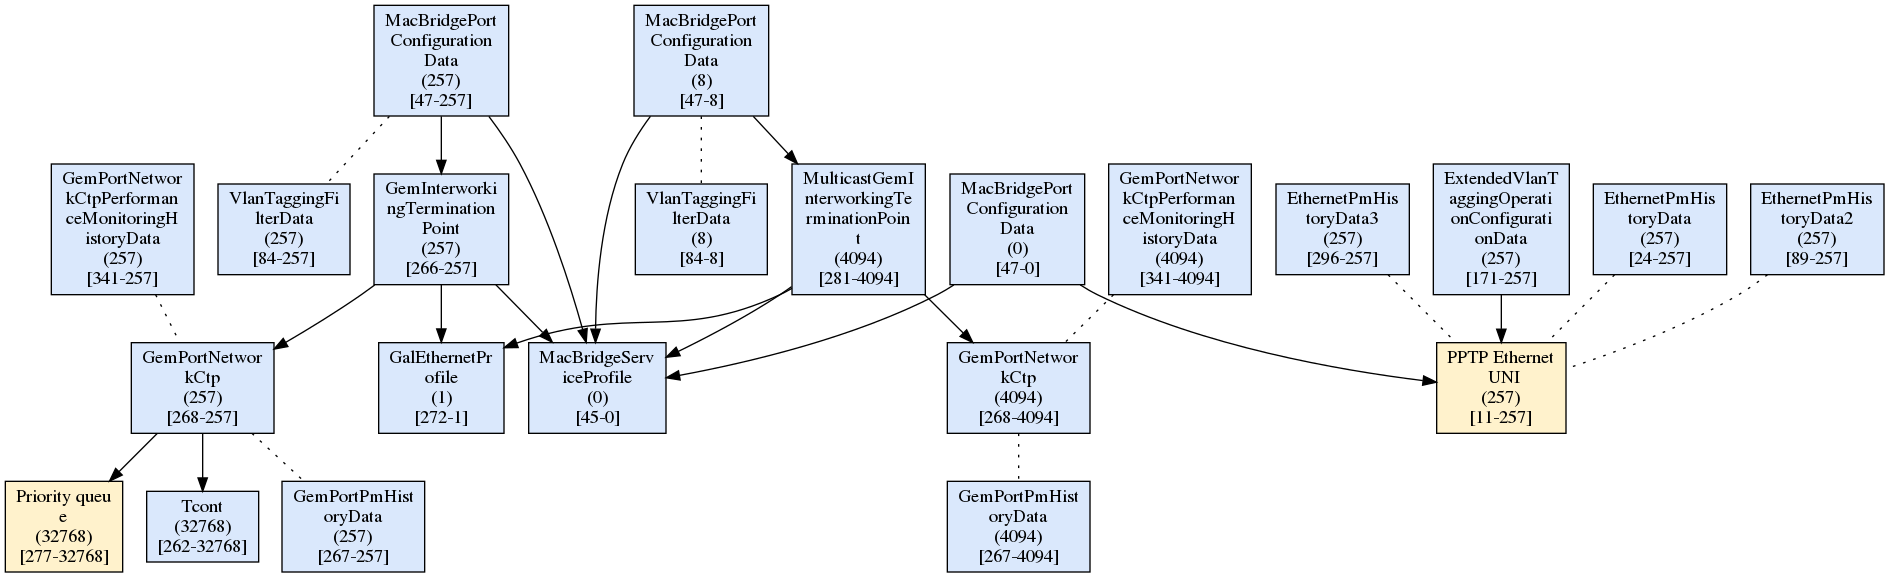
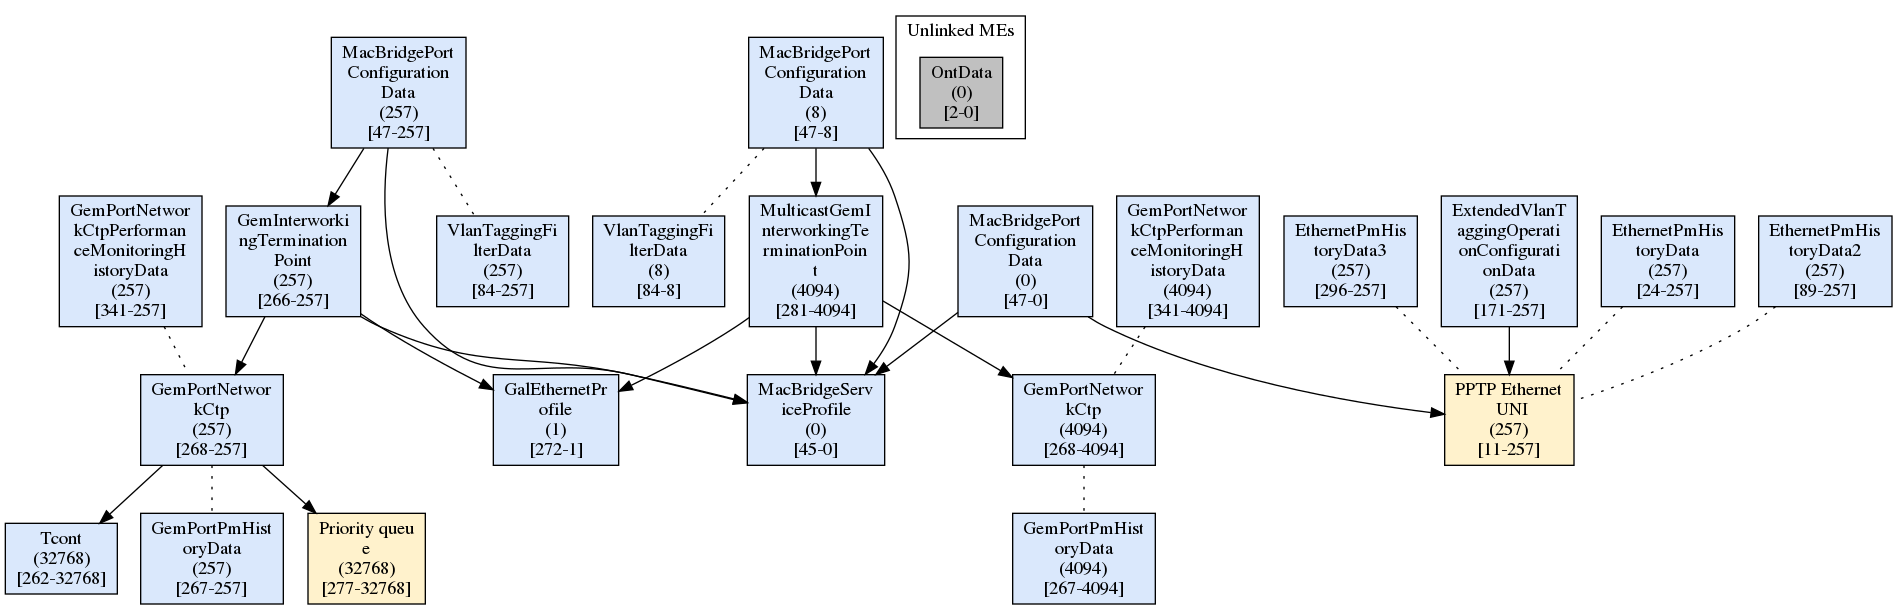
Add unlinked MEs to graph and analyse only downstream pkts

diff --git a/analyser.py b/analyser.py
@@ -108,6 +108,9 @@ class OmciPacket:
     def getMeInst(self):
         return self.me_inst
 
+    def getAckReq(self):
+        return self.ar
+
 class Analyser:
     def __init__(self, buffer=[]):
         self.buffer = buffer
@@ -137,6 +140,10 @@ class Analyser:
     def analyse(self):
         # self.me = MeTranslate.getInstance(self.me_id, self.me_inst)
         for pkt in self.packets:
+            # Only analyse downstream packets
+            if pkt.getAckReq() != 0x1:
+                continue
+
             pkt_type = pkt.getType()
             if pkt_type == MessageType.CREATE:
                 # TODO: if already there is the me in list?
@@ -271,6 +278,26 @@ class Analyser:
             new_line = '\t"{}" -> "{}" [arrowhead=none, arrowtail=none, style=dotted]\n'.format(name1, name2)
             if new_line not in self.output:
                 self.output += new_line
+
+        unlinked_mes = []
+        for e in self.entities:
+            name = "{}".format(e.getName())
+            inst = "({})".format(e.getInstance())
+            idx = "[{}-{}]".format(e.getId(), e.getInstance())
+            name = breakStr(name) + "\\n" + inst + "\\n" + idx
+            if name not in self.output and name not in unlinked_mes:
+                unlinked_mes.append(name)
+
+        if len(unlinked_mes):
+            self.output += "\n\n\tsubgraph clusterunlinked {\n"
+            self.output += "\t\tnode[style=filled, fillcolor=gray]\n"
+            self.output += '\t\tlabel="Unlinked MEs"\n'
+            self.output += "\t\tcolor=black\n"
+            self.output += "\t\t"
+            for u in unlinked_mes:
+                self.output += '"{}" '.format(u)
+
+            self.output += "\n\t}\n"
 
         self.output += "}\n"
 
